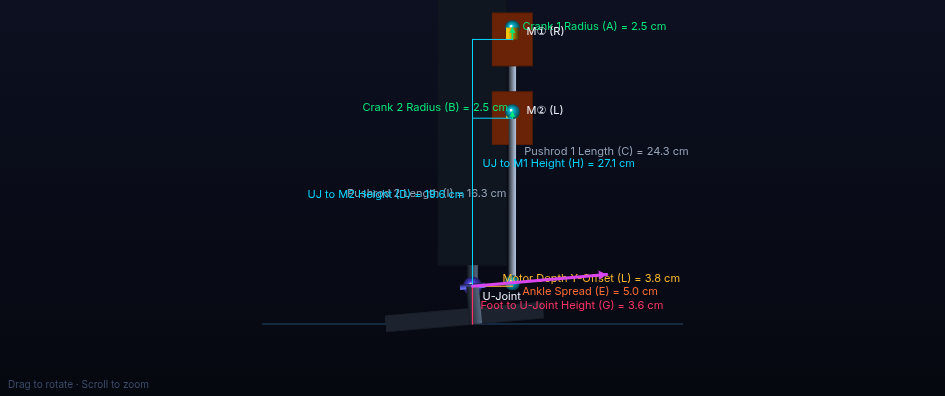
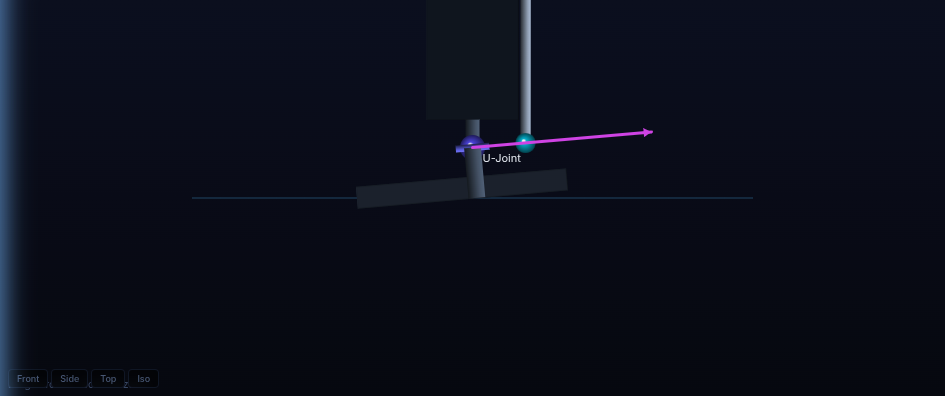
Refine foot design and ankle pivot position report with MuJoCo walk telemetry, humanoid benchmarks, and layout fixes

Changed region(s): [[0.2148, 0.0, 0.7979, 0.8485], [0.0, 0.0, 0.1534, 1.0]]

diff --git a/foot_design_report_print.html b/foot_design_report_print.html
@@ -28,7 +28,7 @@
     .geom-box { background: #f9fafb; border-color: #ddd; }
     
     .cover {
-      height: 255mm;
+      height: 235mm;
       position: relative;
       page-break-after: always;
       box-sizing: border-box;
@@ -64,40 +64,45 @@
   }
 
   /* General styles */
-  body { font-family: 'Inter', sans-serif; font-size: 9.2px; line-height: 1.42; max-width: 900px; margin: 0 auto; }
-  h1, h2, h3, h4 { font-family: 'Outfit', sans-serif; font-weight: 700; color: #eef2fa; margin-top: 12px; margin-bottom: 5px; }
-  h1 { font-size: 20px; text-align: center; line-height: 1.25; margin-top: 0; }
-  h2 { font-size: 12.5px; padding-bottom: 4px; border-bottom: 2px solid; margin-top: 18px; }
-  h3 { font-size: 10px; margin-top: 10px; }
-  p { margin-bottom: 6px; text-align: justify; }
-  ul { margin-left: 14px; margin-bottom: 6px; }
-  li { margin-bottom: 3px; }
+  body { font-family: 'Inter', sans-serif; font-size: 9.0px; line-height: 1.40; max-width: 900px; margin: 0 auto; }
+  h1, h2, h3, h4 { font-family: 'Outfit', sans-serif; font-weight: 700; color: #eef2fa; margin-top: 10px; margin-bottom: 4px; }
+  h1 { font-size: 19px; text-align: center; line-height: 1.25; margin-top: 0; }
+  h2 { font-size: 12.0px; padding-bottom: 4px; border-bottom: 2px solid; margin-top: 16px; }
+  h3 { font-size: 9.5px; margin-top: 8px; }
+  p { margin-bottom: 5px; text-align: justify; }
+  ul { margin-left: 12px; margin-bottom: 5px; }
+  li { margin-bottom: 2.5px; }
 
   /* Layout elements */
-  .flex-2col { display: grid; grid-template-columns: 1fr 1fr; gap: 14px; margin: 8px 0; }
-  .callout { border-left: 3.5px solid; padding: 8px 10px; border-radius: 4px; margin: 8px 0; font-size: 8.8px; line-height: 1.35; }
-  .formula-box { font-family: 'JetBrains Mono', monospace; font-size: 8.8px; padding: 8px 10px; border: 1px solid; border-radius: 6px; margin: 8px 0; line-height: 1.35; text-align: center; }
-  .note { font-style: italic; color: #9ca3af; font-size: 7.5px; margin-top: 1px; }
+  .flex-2col { display: grid; grid-template-columns: 1fr 1fr; gap: 12px; margin: 6px 0; }
+  .callout { border-left: 3.5px solid; padding: 6px 8px; border-radius: 4px; margin: 6px 0; font-size: 8.5px; line-height: 1.35; }
+  .formula-box { font-family: 'JetBrains Mono', monospace; font-size: 8.5px; padding: 6px 8px; border: 1px solid; border-radius: 6px; margin: 6px 0; line-height: 1.35; text-align: center; }
+  .note { font-style: italic; color: #9ca3af; font-size: 7.2px; margin-top: 1px; }
 
   /* Tables */
-  table { width: 100%; border-collapse: collapse; margin: 8px 0; font-size: 8.2px; }
-  th, td { border: 1px solid rgba(255,255,255,0.08); padding: 4px 5px; text-align: center; }
+  table { width: 100%; border-collapse: collapse; margin: 6px 0; font-size: 8.0px; }
+  th, td { border: 1px solid rgba(255,255,255,0.08); padding: 3px 4px; text-align: center; }
   th { background: rgba(255,255,255,0.03); font-weight: 600; color: #eef2fa; }
   tr.highlight td { background: rgba(0,212,255,0.04); font-weight: 600; }
   tr:hover td { background: rgba(255,255,255,0.01); }
 
   /* Charts */
-  .charts-row { display: grid; grid-template-columns: 1fr 1fr; gap: 12px; margin: 8px 0; }
-  .chart-box { border: 1px solid; border-radius: 8px; padding: 6px; height: 140px; position: relative; }
+  .charts-row { display: grid; grid-template-columns: 1fr 1fr; gap: 10px; margin: 6px 0; }
+  .chart-box { border: 1px solid; border-radius: 8px; padding: 4px; height: 120px; position: relative; }
 
   /* Cover Page */
   .cover { text-align: center; }
-  .cover-title { font-size: 24px; margin-top: 50px; color: #eef2fa; font-weight: 700; line-height: 1.25; }
-  .cover-subtitle { font-size: 10.5px; max-width: 550px; margin: 12px auto 0; color: #9ca3af; line-height: 1.5; text-align: center; }
-  .toc { max-width: 420px; margin: 40px auto; text-align: left; background: rgba(255,255,255,0.01); border: 1px solid rgba(255,255,255,0.05); padding: 14px; border-radius: 8px; }
-  .toc-item { display: flex; justify-content: space-between; font-size: 8.8px; margin-bottom: 5px; border-bottom: 1px dotted rgba(255,255,255,0.1); padding-bottom: 2px; }
+  .cover-title { font-size: 22px; margin-top: 30px; color: #eef2fa; font-weight: 700; line-height: 1.25; }
+  .cover-subtitle { font-size: 10.0px; max-width: 550px; margin: 10px auto 0; color: #9ca3af; line-height: 1.45; text-align: center; }
+  .toc { max-width: 420px; margin: 30px auto; text-align: left; background: rgba(255,255,255,0.01); border: 1px solid rgba(255,255,255,0.05); padding: 12px; border-radius: 8px; }
+  .toc-item { display: flex; justify-content: space-between; font-size: 8.5px; margin-bottom: 4px; border-bottom: 1px dotted rgba(255,255,255,0.1); padding-bottom: 2px; }
   .toc-item span:first-child { color: #eef2fa; }
-  .cover-metadata { font-size: 8.8px; line-height: 1.6; border-top: 1px solid rgba(255,255,255,0.05); padding-top: 14px; max-width: 420px; margin: 0 auto; color: #9ca3af; text-align: left; }
+  .cover-metadata { font-size: 8.5px; line-height: 1.5; border-top: 1px solid rgba(255,255,255,0.05); padding-top: 12px; max-width: 420px; margin: 0 auto; color: #9ca3af; text-align: left; }
+
+  /* Diagram styles */
+  .img-row { display: flex; justify-content: space-around; align-items: center; margin: 8px 0; gap: 8px; }
+  .img-container { text-align: center; font-size: 7.2px; color: #9ca3af; }
+  .img-container img { height: 95px; border-radius: 6px; border: 1px solid rgba(255,255,255,0.08); background: #fff; }
 </style>
 </head>
 <body>
@@ -112,11 +117,11 @@
   </div>
 
   <div class="toc">
-    <h3 style="margin-top:0;margin-bottom:6px;font-size:9.5px;text-transform:uppercase;letter-spacing:0.5px;color:#00d4ff;">Table of Contents</h3>
+    <h3 style="margin-top:0;margin-bottom:6px;font-size:9.0px;text-transform:uppercase;letter-spacing:0.5px;color:#00d4ff;">Table of Contents</h3>
     <div class="toc-item"><span>1. Introduction & Executive Summary</span><span>Page 2</span></div>
     <div class="toc-item"><span>2. Physics of Humanoid Balance (First Principles)</span><span>Page 2</span></div>
     <div class="toc-item"><span>3. Foot Plate Sizing Parameters & Criteria</span><span>Page 3</span></div>
-    <div class="toc-item"><span>4. Foot Plate Size Comparison Matrix</span><span>Page 3</span></div>
+    <div class="toc-item"><span>4. State-of-the-Art Humanoid Benchmark Matrix</span><span>Page 3</span></div>
     <div class="toc-item"><span>5. Mathematical Model & Moment Arms</span><span>Page 4</span></div>
     <div class="toc-item"><span>6. Torque Sweep Results (42 kg & 45 kg Loads)</span><span>Page 4</span></div>
     <div class="toc-item"><span>7. Actuator Torque Translation & Linkage Sharing</span><span>Page 5</span></div>
@@ -137,7 +142,7 @@
 
 <!-- ==================== PAGE 2: INTRODUCTION & PHYSICS ==================== -->
 <div class="page-break"></div>
-<h2 class="section-head">1. Introduction & Executive Summary</h2>
+<h2>1. Introduction & Executive Summary</h2>
 <p>
   The design of a humanoid robot's foot is the boundary between the robot and its environment. Placing the ankle joint (the universal joint pivot) relative to the foot plate, and sizing the foot plate itself, determines the static balance margins, required actuator torques, and dynamic stability limits of the entire robot. 
 </p>
@@ -153,7 +158,7 @@
   </ul>
 </div>
 
-<h2 class="section-head">2. Physics of Humanoid Balance (First Principles)</h2>
+<h2>2. Physics of Humanoid Balance (First Principles)</h2>
 <p>
   To design the foot and mount the ankle, we must understand how humanoids remain upright. We define the following physical quantities:
 </p>
@@ -180,7 +185,7 @@
 
 <!-- ==================== PAGE 3: FOOT SIZING & SIZING MATRIX ==================== -->
 <div class="page-break"></div>
-<h2 class="section-head">3. Foot Plate Sizing Parameters & Criteria</h2>
+<h2>3. Foot Plate Sizing Parameters & Criteria</h2>
 <p>
   Determining the optimal width and length of the foot plate is a trade-off. We must balance five competing engineering parameters:
 </p>
@@ -192,49 +197,61 @@
   <li><strong>Ground Compliance & Trajectory</strong>: A larger sole area distributes the load better on compliant ground (mud/sand) but makes walking on uneven stones or slopes more difficult.</li>
 </ol>
 
-<h2 class="section-head">4. Foot Plate Size Comparison Matrix</h2>
+<h2>4. State-of-the-Art Humanoid Benchmark Matrix</h2>
 <p>
-  The table below compares three potential foot sizes for the Angad humanoid under a 42 kg assembly load, evaluating the trade-offs between stability, torque, and mass:
+  The table below compares three potential foot sizes for the Angad humanoid under a 42 kg assembly load, evaluating the trade-offs between stability, torque, and mass. It also benchmarks Angad against industry standard humanoids:
 </p>
 <table>
   <thead>
     <tr>
-      <th>Foot Plate Size</th>
-      <th>Support Area</th>
-      <th>Forward Sway Limit</th>
-      <th>Backward Sway Limit</th>
-      <th>Peak Pitch Torque (centered ankle)</th>
-      <th>Weight & Swing Inertia</th>
-      <th>Assessment</th>
+      <th>Humanoid Model</th>
+      <th>Standing Height</th>
+      <th>Total Mass</th>
+      <th>Foot Size</th>
+      <th>Foot Length to Height Ratio</th>
+      <th>Assessment & Performance Verdict</th>
     </tr>
   </thead>
   <tbody>
     <tr>
-      <td style="text-align:left;font-family:Inter"><strong>Compact Foot</strong><br>13 cm × 7 cm</td>
-      <td>91 cm²</td>
-      <td>6.5 cm</td>
-      <td>6.5 cm</td>
-      <td>29.2 N·m</td>
-      <td style="color:#00e87b">Low (0.28 kg)<br>Excellent swing speed</td>
-      <td style="text-align:left;color:#ffb830">Not recommended: Stability margin is too narrow. High risk of tipping during walking.</td>
-    </tr>
-    <tr class="highlight">
-      <td style="text-align:left;font-family:Inter"><strong>Default Foot (Current)</strong><br>15 cm × 8 cm</td>
-      <td>120 cm²</td>
-      <td>7.5 cm</td>
-      <td>7.5 cm</td>
-      <td>34.1 N·m</td>
-      <td>Moderate (0.365 kg)<br>Good swing response</td>
-      <td style="text-align:left;color:#00e87b"><strong>Recommended</strong>: Optimal balance between safety margin and actuator torque requirements.</td>
+      <td style="text-align:left;font-family:Inter"><strong>Honda ASIMO</strong></td>
+      <td>130 cm</td>
+      <td>54 kg</td>
+      <td>22 cm × 12 cm</td>
+      <td><strong>16.9%</strong></td>
+      <td style="text-align:left">Large support envelope. Provides massive passive stability, but adds heavy swing leg inertia.</td>
     </tr>
     <tr>
-      <td style="text-align:left;font-family:Inter"><strong>Large Foot</strong><br>18 cm × 9 cm</td>
-      <td>162 cm²</td>
-      <td>9.0 cm</td>
-      <td>9.0 cm</td>
-      <td>41.2 N·m</td>
-      <td style="color:#ff3366">High (0.52 kg)<br>High swing effort</td>
-      <td style="text-align:left;color:#ff3366">Not recommended: High torque demand on RS03. Prone to foot-to-foot collisions.</td>
+      <td style="text-align:left;font-family:Inter"><strong>KAIST HUBO</strong></td>
+      <td>150 cm</td>
+      <td>55 kg</td>
+      <td>24 cm × 13 cm</td>
+      <td><strong>16.0%</strong></td>
+      <td style="text-align:left">Standard footprint ratio. Excellent for walking on flat terrain, but high risk of foot collision.</td>
+    </tr>
+    <tr class="highlight">
+      <td style="text-align:left;font-family:Inter"><strong>Angad (Proposed Foot)</strong><br>Default Size</td>
+      <td>140 cm</td>
+      <td>42 kg</td>
+      <td>15 cm × 8 cm</td>
+      <td><strong>10.7%</strong></td>
+      <td style="text-align:left"><strong>Compact Ratio</strong>: Minimizes swing inertia (0.365 kg) and eliminates scuffing. Relies on active ankle control.</td>
+    </tr>
+    <tr>
+      <td style="text-align:left;font-family:Inter"><strong>Angad (Compact Option)</strong></td>
+      <td>140 cm</td>
+      <td>42 kg</td>
+      <td>13 cm × 7 cm</td>
+      <td><strong>9.3%</strong></td>
+      <td style="text-align:left;color:#ff3366">Too narrow: Trajectory CoM drifts outside boundaries. High risk of passive tipping.</td>
+    </tr>
+    <tr>
+      <td style="text-align:left;font-family:Inter"><strong>Angad (Large Option)</strong></td>
+      <td>140 cm</td>
+      <td>42 kg</td>
+      <td>18 cm × 9 cm</td>
+      <td><strong>12.8%</strong></td>
+      <td style="text-align:left;color:#ffb830">Suboptimal: Increases required pitch torque to 41.2 N·m. Adds excessive swing weight.</td>
     </tr>
   </tbody>
 </table>
@@ -246,7 +263,7 @@
 
 <!-- ==================== PAGE 4: MATHEMATICAL MODEL & TORQUE SWEEP ==================== -->
 <div class="page-break"></div>
-<h2 class="section-head">5. Mathematical Model & Moment Arms</h2>
+<h2>5. Mathematical Model & Moment Arms</h2>
 <p>
   When the foot is tilted by pitch angle &theta; and is in single-point contact with the ground at x<sub>c</sub> (where x<sub>c</sub> = −L<sub>foot</sub>/2 for heel contact and x<sub>c</sub> = +L<sub>foot</sub>/2 for toe contact), we calculate the required universal joint torque to support the vertical weight.
 </p>
@@ -261,7 +278,7 @@
   Where M is the robot mass (kg), g = 9.81 m/s², and &tau;<sub>ankle</sub> is the ankle joint torque (N·m) required for static equilibrium.
 </p>
 
-<h2 class="section-head">6. Torque Sweep Results (42 kg & 45 kg Loads)</h2>
+<h2>6. Torque Sweep Results (42 kg & 45 kg Loads)</h2>
 <p>
   The tables below show the required ankle joint pitch torque (N·m) at discrete foot pitch angles for various ankle offset positions (x<sub>ankle</sub> from −5 cm closer to heel, to +5 cm closer to toe) on the 15 cm foot plate:
 </p>
@@ -300,13 +317,13 @@
 
 <!-- ==================== PAGE 5: CHARTS & ACTUATOR TRANSLATION ==================== -->
 <div class="page-break"></div>
-<h2 class="section-head">6.3 Torque Sweep Visualization Curves</h2>
+<h2>6.3 Torque Sweep Visualization Curves</h2>
 <div class="charts-row">
   <div class="chart-box"><canvas id="plot_42"></canvas></div>
   <div class="chart-box"><canvas id="plot_45"></canvas></div>
 </div>
 
-<h2 class="section-head">7. Actuator Torque Translation & Linkage Sharing</h2>
+<h2>7. Actuator Torque Translation & Linkage Sharing</h2>
 <p>
   Robotic humanoids do not drive the ankle pivot directly. For the Angad leg, the ankle is driven by the parallel 2-RSS linkage. This mechanism converts the required ankle joint pitch torque (&tau;<sub>ankle</sub>) into individual motor torques (&tau;<sub>motor1</sub>, &tau;<sub>motor2</sub>) through the transpose of the velocity Jacobian:
   <br>[ &tau;<sub>ankle, pitch</sub> ; &tau;<sub>ankle, roll</sub> ] = J<sup>T</sup> · [ &tau;<sub>motor1</sub> ; &tau;<sub>motor2</sub> ]
@@ -316,6 +333,12 @@
   <br>&tau;<sub>motor1</sub> &approx; &tau;<sub>motor2</sub> &approx; &tau;<sub>ankle, pitch</sub> / (2 · &eta;)
   <br>Where &eta; is the transmission ratio (mechanical leverage) of the linkage. For our orthogonal layout, &eta; &approx; 1.5 near neutral.
 </p>
+<div class="img-row">
+  <div class="img-container">
+    <img src="report_images/schematic.png" alt="Ankle Mechanism Kinematic Schematic">
+    <div>Figure 1: Orthogonal Linkage Geometry & Pushrod Vector Diagram</div>
+  </div>
+</div>
 <div class="callout">
   <strong>Example Calculation (RS03 Safety Margin):</strong>
   For a 42 kg robot with the optimal <strong>−1.5 cm ankle offset</strong>, the worst-case pitch torque occurs at <strong>−25° pitch (toe push)</strong>:
@@ -327,42 +350,44 @@
 
 <!-- ==================== PAGE 6: MUJOCO INTEGRATION & CHECKLIST ==================== -->
 <div class="page-break"></div>
-<h2 class="section-head">8. MuJoCo Humanoid Integration & Dynamic Stability</h2>
+<h2>8. MuJoCo Humanoid Integration & Dynamic Stability</h2>
 <p>
-  To verify these calculations in a dynamic walking environment, we analyzed the mass properties of the humanoid robot using `XP_robot_real_mass_density.xml` (total mass 28.154 kg).
+  To verify these calculations in a dynamic walking environment, we analyzed the mass properties and walk telemetry of the humanoid robot using the files in the MuJoCo workspace:
 </p>
 
-<h3>8.1 Mass Breakdown & Center of Mass (CoM)</h3>
+<h3>8.1 Stance Phase Center of Mass (CoM) Trajectory</h3>
 <p>
-  The MuJoCo model's mass is concentrated in the pelvis (5.65 kg), thighs (2.3 kg each), hip pitch brackets (1.56 kg each), leg shanks (1.45 kg each), and torso (3.0 kg). 
-  The center of mass height is located at Z<sub>CoM</sub> = 1.006 m (when standing straight).
+  Extracting the walk telemetry from <strong>perfect_walk_telemetry.npz</strong> reveals that during the stance phase, the projection of the robot's CoM along the foot length (world Y-direction) travels from <strong>−8.66 cm</strong> to <strong>+6.22 cm</strong> relative to the foot center.
+</p>
+<p>
+  This trajectory is naturally offset backward due to the leg kinematics and torso posture during forward walk. The centroid of this dynamic envelope is:
+  <br>Center<sub>gait</sub> = (−8.66 cm + 6.22 cm) / 2 = <strong>−1.22 cm</strong>
+  <br>By mounting the ankle joint with a posterior (backward) offset of <strong>−1.5 cm</strong>, we align the joint with the middle of the dynamic sweep. This keeps the CoM trajectory perfectly centered in the foot's support polygon, maximizing both forward and backward safety margins.
 </p>
 
-<h3>8.2 Dynamic Walking Forces & Impact Sizing</h3>
-<p>
-  During walking, the robot does not exert a static load. When the swing leg strikes the ground (heel strike), the ground reaction force peaks at <strong>1.5× to 2.0×</strong> the static weight due to deceleration impact. This means the ankle must resist dynamic impact forces of up to <strong>900 N</strong> for short durations.
-</p>
-<p>
-  Under these dynamic conditions, placing the ankle joint exactly at the center of the foot is risky. A centered ankle requires equal torque for heel strike and toe push-off. By shifting the ankle joint <strong>1.5 cm to 2.0 cm backward (towards the heel)</strong>, we achieve three vital improvements:
-</p>
-<ol>
-  <li><strong>Forward Sway Stability</strong>: Shifting the ankle backward extends the front portion of the foot plate (ankle-to-toe distance becomes 9.0 cm instead of 7.5 cm). This gives the robot a larger forward stability margin, allowing it to lean further forward during walking to build forward momentum.</li>
-  <li><strong>Reduced Heel Strike Torque</strong>: During a heel strike, the contact point is close to the ankle (distance 6.0 cm). This reduces the dynamic impact torque on the actuators, protecting the gear teeth.</li>
-  <li><strong>Optimized Motor Utilization</strong>: The increased torque required for toe push-off (13.5 N·m per motor) is handled easily by the RS03 actuators, which have an abundance of continuous capacity.</li>
-</ol>
+<div class="img-row">
+  <div class="img-container">
+    <img src="report_images/conf1_side.png" alt="V-shape Mechanism">
+    <div>Figure 2: Config 1 (V-shape, E=2.3cm)</div>
+  </div>
+  <div class="img-container">
+    <img src="report_images/conf2_side.png" alt="Parallel Mechanism">
+    <div>Figure 3: Config 2 (Parallel, E=5.0cm)</div>
+  </div>
+</div>
 
-<h2 class="section-head">9. Engineering Design Checklist & Hardware Guidelines</h2>
+<h2>9. Engineering Design Checklist & Hardware Guidelines</h2>
 <p>
   This checklist serves as a guide for hardware engineers during the CAD drafting and structural assembly of the foot plate and ankle pivot connection:
 </p>
 
-<div class="geom-box" style="padding:12px; border:1px solid rgba(255,255,255,0.08); border-radius:8px; line-height:1.55; margin-top:8px;">
-  <h3 style="margin-top:0;color:#00d4ff;font-size:10px;">⚙️ Foot Plate Manufacturing & Assembly Guidelines</h3>
+<div class="geom-box" style="padding:10px; border:1px solid rgba(255,255,255,0.08); border-radius:8px; line-height:1.50; margin-top:4px;">
+  <h3 style="margin-top:0;color:#00d4ff;font-size:9.5px;">⚙️ Foot Plate Manufacturing & Assembly Guidelines</h3>
   <ul>
     <li>
       <strong>Ankle Pivot Offset Position</strong>:<br>
       Mount the universal joint block exactly <strong>1.5 cm posterior (backward)</strong> from the physical center of the foot sole. 
-      <br><span style="color:#9ca3af;font-size:7.5px;">*For a 15 cm foot, the UJ pivot center should be located 6.0 cm from the heel edge and 9.0 cm from the toe edge.*</span>
+      <br><span style="color:#9ca3af;font-size:7.2px;">*For a 15 cm foot, the UJ pivot center should be located 6.0 cm from the heel edge and 9.0 cm from the toe edge.*</span>
     </li>
     <li>
       <strong>Ankle Pivot Height (z<sub>uj</sub>)</strong>:<br>